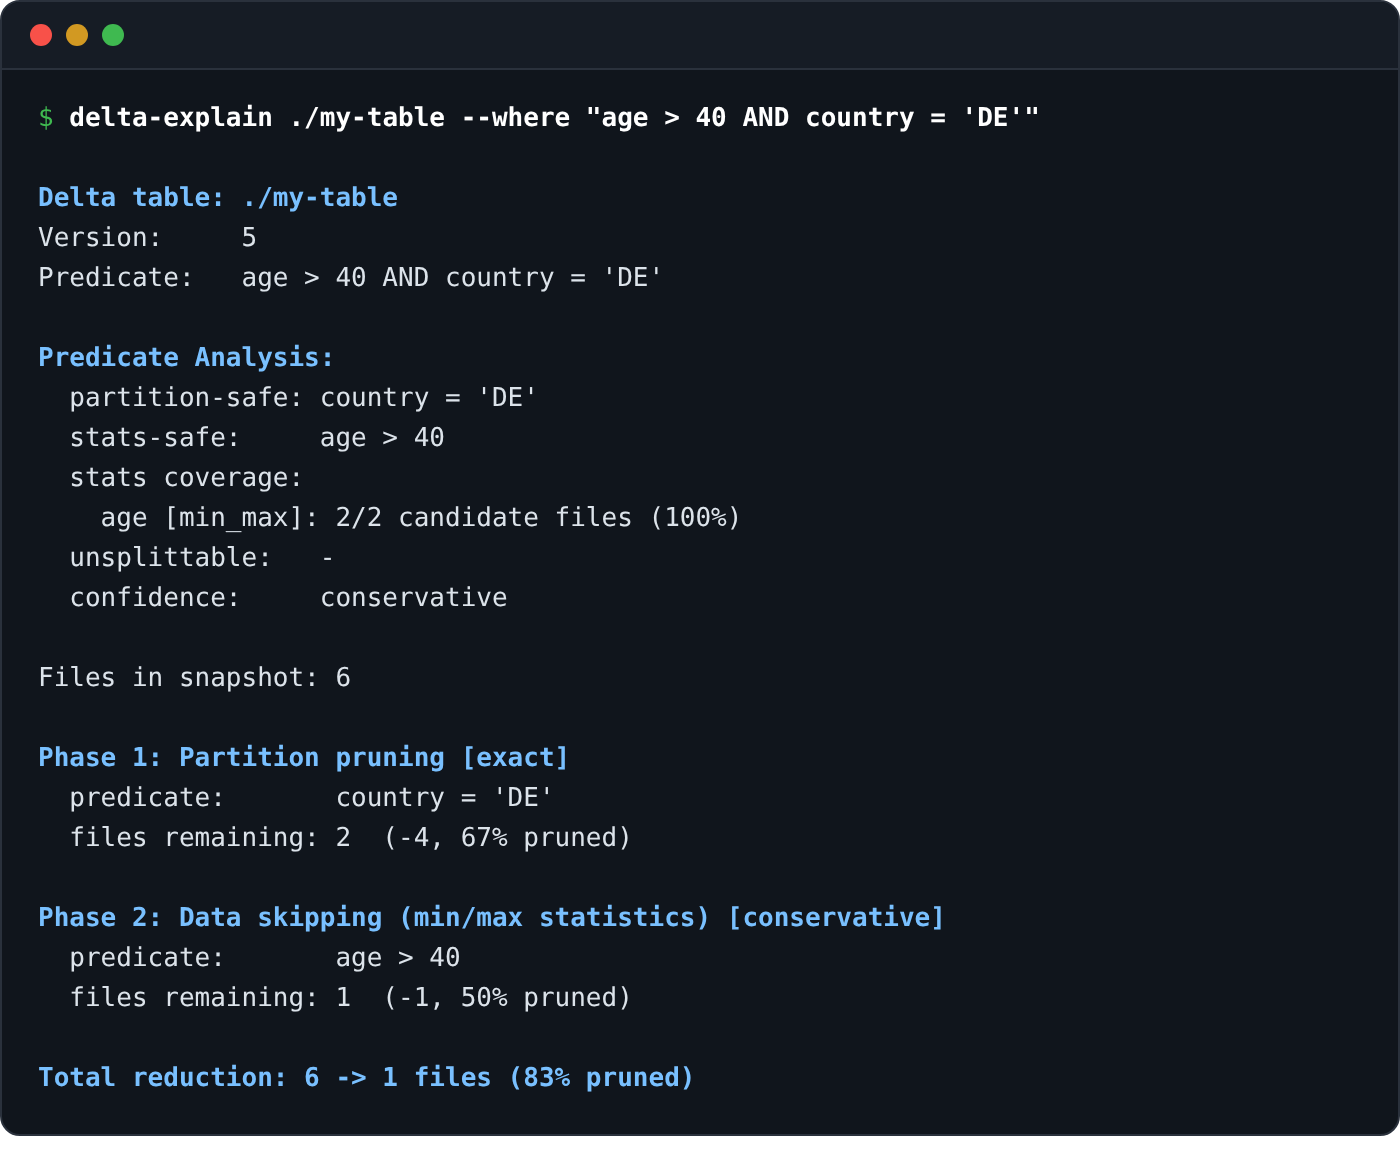
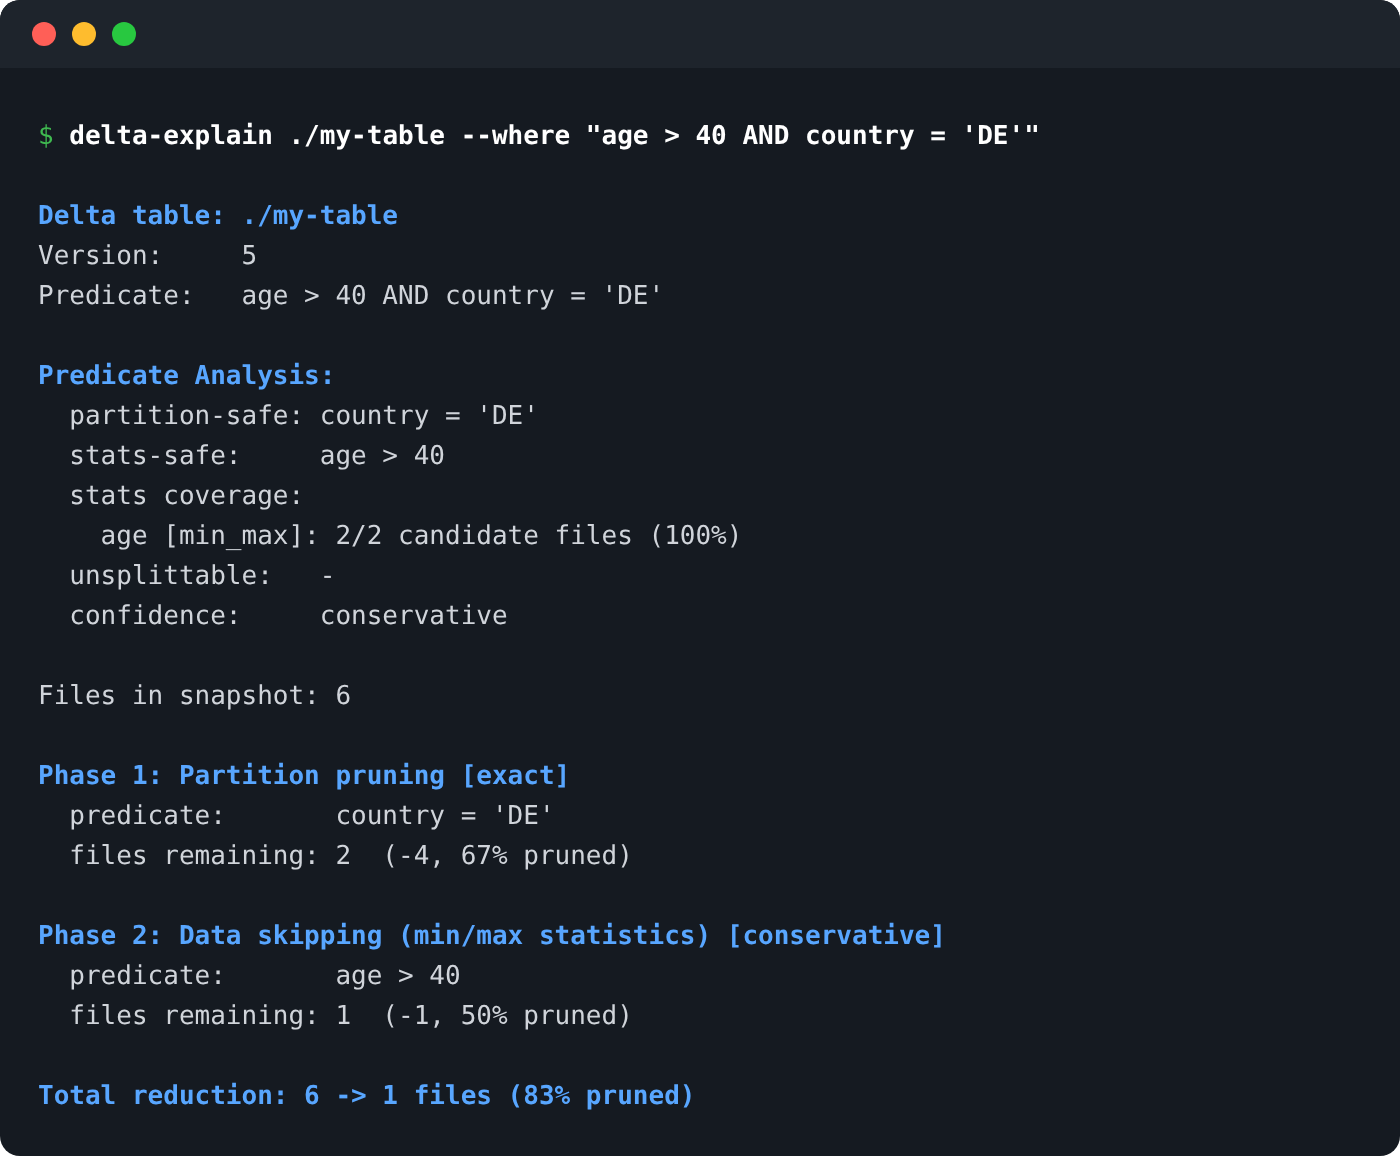
chore: release as 0.8.0 (#190)
* chore: release as 0.8.0

* fix: compare the bump's file set in C sort order

* docs: regenerate captured output for 0.8.0

* docs: rejoin the ci-gating pointer paragraph

diff --git a/README.md b/README.md
@@ -56,15 +56,12 @@ A table in Unity Catalog can be named instead of located. The catalog answers wi
 
 ```bash
 export DATABRICKS_HOST=https://<workspace>.cloud.databricks.com DATABRICKS_TOKEN=<token>
-delta-explain --catalog unity sales.events.orders --where "day = DATE '2026-10-01'"
+delta-explain --catalog unity sales.events.orders --where "age > 40 AND country = 'DE'"
 ```
 
-```
-Delta table: sales.events.orders
-Resolved:    s3://warehouse/events/orders/ (unity catalog)
-```
+<img src="assets/readme/cli-catalog.png" alt="delta-explain --catalog unity on a table named sales.events.orders: a Resolved line shows the storage location the catalog answered with, then the same predicate analysis and pruning phases as for a path" width="700">
 
-The rest of the report is the same, and the JSON carries the resolution in a `catalog` object. The full flag list is `delta-explain --help`, or the [CLI reference](https://cdelmonte-zg.github.io/delta-explain/reference/cli.html). Predicates are standard SQL WHERE syntax; the supported constructs, with what each one can prune, are in the [predicate syntax reference](https://cdelmonte-zg.github.io/delta-explain/reference/predicate-syntax.html).
+The `Resolved:` line is the only addition; the JSON carries the resolution in a `catalog` object. The full flag list is `delta-explain --help`, or the [CLI reference](https://cdelmonte-zg.github.io/delta-explain/reference/cli.html). Predicates are standard SQL WHERE syntax; the supported constructs, with what each one can prune, are in the [predicate syntax reference](https://cdelmonte-zg.github.io/delta-explain/reference/predicate-syntax.html).
 
 ### From Python
 
@@ -79,7 +76,7 @@ report = explain("s3://warehouse/events",
 report.passed              # gate outcome; False means the CLI would exit 1
 report.total_pruning_pct
 
-report = explain("sales.events.orders", catalog="unity", where="day = DATE '2026-10-01'")
+report = explain("sales.events.orders", catalog="unity", where="country = 'DE' AND age > 40")
 report.catalog["location"]  # what the catalog resolved the name to
 ```
 
@@ -96,7 +93,7 @@ delta-explain s3://warehouse/events -w "date = '2024-01-15'" --min-pruning 90 --
 The repo doubles as a composite GitHub Action, so the gate is one step. Pin the tag: the action downloads a released binary, so the ref you pin is the behavior you get.
 
 ```yaml
-- uses: cdelmonte-zg/delta-explain@v0.7.0
+- uses: cdelmonte-zg/delta-explain@v0.8.0
   with:
     table: s3://warehouse/events
     where: "country = 'DE' AND age > 40"
@@ -108,17 +105,17 @@ The repo doubles as a composite GitHub Action, so the gate is one step. Pin the 
 Inputs mirror the CLI flags; the step fails when a gate fails and exposes `pruning-pct`, `final-files`, and `result` as outputs for later steps. With `catalog: unity` the `table` input is a name, and the step reads `DATABRICKS_HOST` and `DATABRICKS_TOKEN` from its `env`:
 
 ```yaml
-- uses: cdelmonte-zg/delta-explain@v0.7.0
+- uses: cdelmonte-zg/delta-explain@v0.8.0
   with:
     table: sales.events.orders
     catalog: unity
-    where: "day = DATE '2026-10-01'"
-    min-pruning: "90"
+    where: "country = 'DE' AND age > 40"
+    min-pruning: "60"
   env:
     DATABRICKS_HOST: ${{ vars.DATABRICKS_HOST }}
     DATABRICKS_TOKEN: ${{ secrets.DATABRICKS_TOKEN }}
 ```
- How to calibrate the threshold, keep the CI predicate semantically equivalent to the runtime query, and run the same gate from Docker: [gating pruning in CI](https://cdelmonte-zg.github.io/delta-explain/guides/ci-gating.html).
+How to calibrate the threshold, keep the CI predicate semantically equivalent to the runtime query, and run the same gate from Docker: [gating pruning in CI](https://cdelmonte-zg.github.io/delta-explain/guides/ci-gating.html).
 
 ### Examples
 

diff --git a/book/src/guides/ci-gating.md b/book/src/guides/ci-gating.md
@@ -91,7 +91,7 @@ a partial document.
 A composite action wraps the CLI with matching inputs. Pin the release tag:
 
 ```yaml
-- uses: cdelmonte-zg/delta-explain@v0.7.0
+- uses: cdelmonte-zg/delta-explain@v0.8.0
   with:
     table: s3://lake/events
     where: "region = 'eu'"
@@ -104,7 +104,7 @@ the table with the credentials the catalog vends, so no cloud credentials
 are configured on the runner:
 
 ```yaml
-- uses: cdelmonte-zg/delta-explain@v0.7.0
+- uses: cdelmonte-zg/delta-explain@v0.8.0
   with:
     table: sales.events.orders
     catalog: unity

diff --git a/book/src/guides/cloud.md b/book/src/guides/cloud.md
@@ -49,7 +49,7 @@ server) can be named instead of located:
 ```bash
 export DATABRICKS_HOST=https://<workspace>.cloud.databricks.com
 export DATABRICKS_TOKEN=<personal access token>
-delta-explain --catalog unity sales.events.orders -w "day = DATE '2026-10-01'"
+delta-explain --catalog unity sales.events.orders -w "country = 'DE' AND age > 40"
 ```
 
 The catalog answers with the table's storage location and vends temporary

diff --git a/CHANGELOG.md b/CHANGELOG.md
@@ -7,7 +7,7 @@ and from v0.2.0 onwards the project follows [Semantic Versioning](https://semver
 The JSON output carries an explicit `schema_version` field whose changes also
 follow SemVer relative to that field.
 
-## [Unreleased]
+## [0.8.0] - 2026-10-15
 
 ### Added
 
